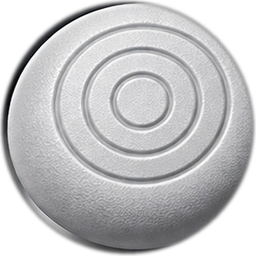
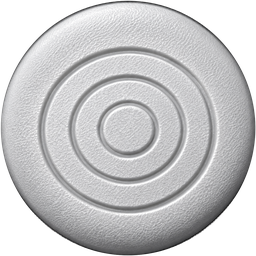
Android touch: new joystick cap picture from the user (rings centred)
Cut out of its baked-in checkerboard on a fitted circle; same opacity and stick
logic. Guard OWN_ART hash updated.

diff --git a/tools/check_no_game_data.py b/tools/check_no_game_data.py
@@ -53,7 +53,7 @@ OWN_ART = {
     "android/touch_icons/drift_r.png": "45e1558994abaad8f85966ad7c8ff32ee5cde5ac",
     "android/touch_icons/jump_a.png": "d1ff0d81d64478b89993997059c635d42cd3c331",
     "android/touch_icons/stick_base.png": "7279efbd5b60980cf5af16cb5a1c6666f34a1455",
-    "android/touch_icons/stick_knob.png": "0c95f1650e2502ae0522a3da1351c9961b19b472",
+    "android/touch_icons/stick_knob.png": "181e6e6f4882716c1c743ee5fdd85286224dd6dc",
     "android/touch_icons/tornado_lr.png": "5ab1c2552a4a15757d974abf7aa8e87226a2b441",
 }
 

diff --git a/STATE.md b/STATE.md
@@ -66,10 +66,8 @@ generated online save, own view) and the performance test (`SR_PERFTEST`).
   - Touch pictures `android/touch_icons/*.png` are committed (user's own art; guard exception pinned by SHA-1 in
     `tools/check_no_game_data.py` OWN_ART: a changed picture needs its new hash there).
 - **Next: the user's touch/controller feedback (2026-11-03), all not done yet:**
-  1. Stick knob: rings centred on the ball (they sit at (141,100) in the 256 px knob, ball centre 128; radii 27/54/81,
-     evenly spaced). A warped candidate is in `build/android/run/user1/knob_new.png` (rings moved to the centre,
-     blended to the original rim from r 92-126): check it, put it in `android/touch_icons/`, update OWN_ART. Base well
-     centre measured ~(188,188) of 384 (base content is 384 x 358, not square): centre the knob on the well.
+  1. DONE (2026-11-03): new knob picture from the user (rings centred), cut out of its baked-in checkerboard on a
+     fitted circle, 256 px, same opacity and movement; installed on the phone, not yet looked at by the user.
   2. Stick home position a little north-east; stick less sensitive in the game's menus (bigger dead zone / curve).
   3. PAUSE: a circle with "START" written inside, centred.
   4. Overlay menu by touch is unreliable (taps sometimes ignored); its "Close" does not close the menu (only brings

diff --git a/docs/HISTORY.md b/docs/HISTORY.md
@@ -652,3 +652,7 @@ Sources: SwitchWakerHD docs/switch-port.md rounds 5-18 and 29, docs/pgo.md; WWHD
   hide Fullscreen, controls text, app icon, analog trigger click threshold). Not done yet.
 - Scope decision (user): local split screen up to 2 players with pads; 3-4 players only online.
 - Touch pictures committed with the user's OK: guard exception `OWN_ART` (exact paths + SHA-1 + PNG signature).
+- Later: the user supplied a new joystick cap picture (rings centred). Its "transparency" was a baked-in checkerboard:
+  cut out on a circle fitted to 360 edge points of its dark rim (sd 2.8 px), 1.5 px soft edge, 256 px; replaces
+  `stick_knob.png` (OWN_ART hash updated), same opacity and stick logic. Installed on the phone. [likely; not seen on
+  the phone by the user yet]
